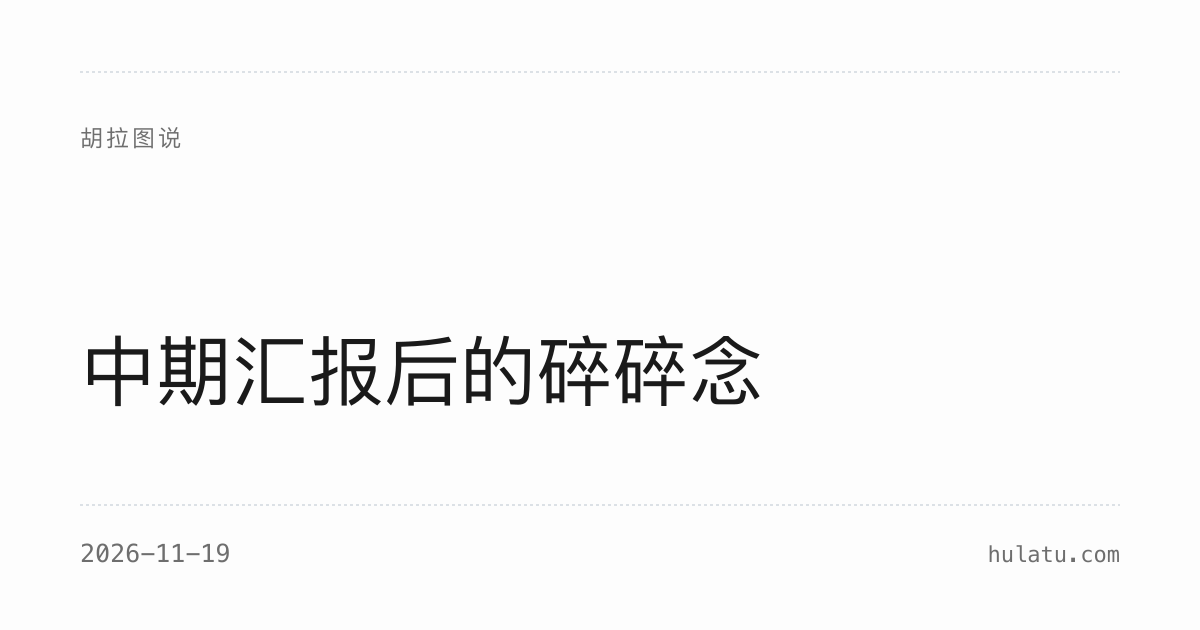
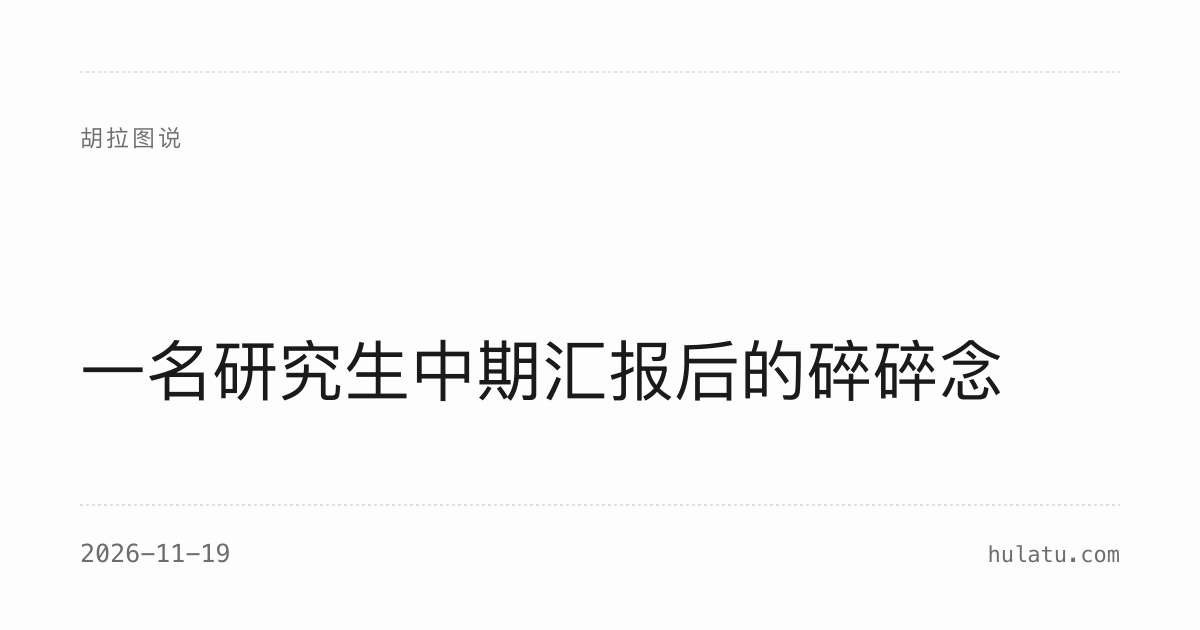
博客：新增/修改文章

Changed region(s): [[0.0617, 0.5127, 0.8325, 0.6635]]

diff --git a/content/posts/中期汇报后的碎碎念.md b/content/posts/中期汇报后的碎碎念.md
@@ -1,7 +1,7 @@
 ---
-title: "中期汇报后的碎碎念"
+title: "一名研究生中期汇报后的碎碎念"
 date: 2026-11-19T16:29:22+08:00
-lastmod: 2026-11-19T16:29:22+08:00
+lastmod: 2026-11-19T23:48:19+08:00
 slug: "brief-discussion-after-the-report"
 summary: "觉得自己没啥进步的时候，有时又莫名觉得自己挺行的。"
 description: "这篇文章记录了一下我中期汇报过后的喜悦、轻松，并且站在一个有点偏执的视角、带有一点故事性的口吻，讲述了读研生活的压抑、煎熬，批评了一下研究生培养体系的名存实亡；最后自我反省了一下，分享了一下读研以来我个人的收获和成长"
@@ -35,7 +35,7 @@ draft: false
 
 再后来，你课程结束了，要专心开始自己的课题实验了，老师们会「语重心长」的对你说，为了培养大家的某些能力，大家尽量自己去阅读文献，挖掘自己感兴趣的、适合自己的课题。于是乎，挖掘到了开题，你依旧没有头绪、没有明晰的方向、没有清晰的框架。临近开题的组会上，老师会「语重心长的站在为我们好的角度」教育我们：你们这段时间都在忙些什么，这么简单的事情都做不好……然后你就带着各种「不清晰」站上了开题报告的讲台，当你开口直到结束，听着「专家老师们」问出的那些问题，你似乎明白了点什么——好像这个世界上，稀里糊涂的，不止你一个人呐！
 
-后续的日子里，你在懵懵懂懂中慢慢尝试自己课题实验，一方面是真心想推进自己的课题进展，毕竟谁还不想好好毕业呢？一方面是为了组会上有东西可说，不然又得被老师「语重心长」一番了。可惜，设计实验也不是谁生来就会的，你得会检索可靠的资料，找到准确地参数、条件和试剂，畅想自己能在仪器上「羽扇纶巾」的推进自己的实验……呃……等等，我们实验室的仪器怎么和文献上不一样、怎么也和各种教学视频上的不一样，于是乎，为了实验，内向、社恐了 20+ 年的你，鼓起了莫大的勇气礼貌的询问某个师兄、师姐，让他们教你使用一下某台仪器。但是，你收到的可能是「不好意思，我有点忙」；「那个谁也会，ta 用得多，要不你去问 ta 吧」；「去找你师兄吧，他在用」……社恐内向的你，其实无论对方给到你任何回复，其实你都在嘴边准备着一句——好的，谢谢师兄 or 师姐！因为当你鼓起勇气、扣着脚指头、硬着头皮去问一些东西的时候，其实很多时候别人怎么回答你，你气死都没那么关心了，因为你多少年都是这么内向、社恐过来的。
+后续的日子里，你在懵懵懂懂中慢慢尝试自己课题实验，一方面是真心想推进自己的课题进展，毕竟谁还不想好好毕业呢？一方面是为了组会上有东西可说，不然又得被老师「语重心长」一番了。可惜，设计实验也不是谁生来就会的，你得会检索可靠的资料，找到准确地参数、条件和试剂，畅想自己能在仪器上「羽扇纶巾」的推进自己的实验……呃……等等，我们实验室的仪器怎么和文献上不一样、怎么也和各种教学视频上的不一样，于是乎，为了实验，内向、社恐了 20+ 年的你，鼓起了莫大的勇气礼貌的询问某个师兄、师姐，让他们教你使用一下某台仪器。但是，你收到的可能是「不好意思，我有点忙」；「那个谁也会，ta 用得多，要不你去问 ta 吧」；「去找你师兄吧，他在用」……社恐内向的你，其实无论对方给到你任何回复，你都在嘴边准备着一句——好的，谢谢师兄 or 师姐！因为当你鼓起勇气、扣着脚指头、硬着头皮去问一些东西的时候，很多时候别人怎么回答你，你其实都没那么关心了，因为你多少年都是这么内向、社恐过来的。
 
 总之，也不知道怎么的，有些仪器，是师兄师姐、甚至师弟师妹带着你用，你搞明白了。有些仪器，自己摸索着、看看操作书、试着用用，大概其也会用了。还有些仪器，从你进实验室到毕业，你都没有打开过——可能是你不会，也可能是过于昂贵老师不让用。
 
